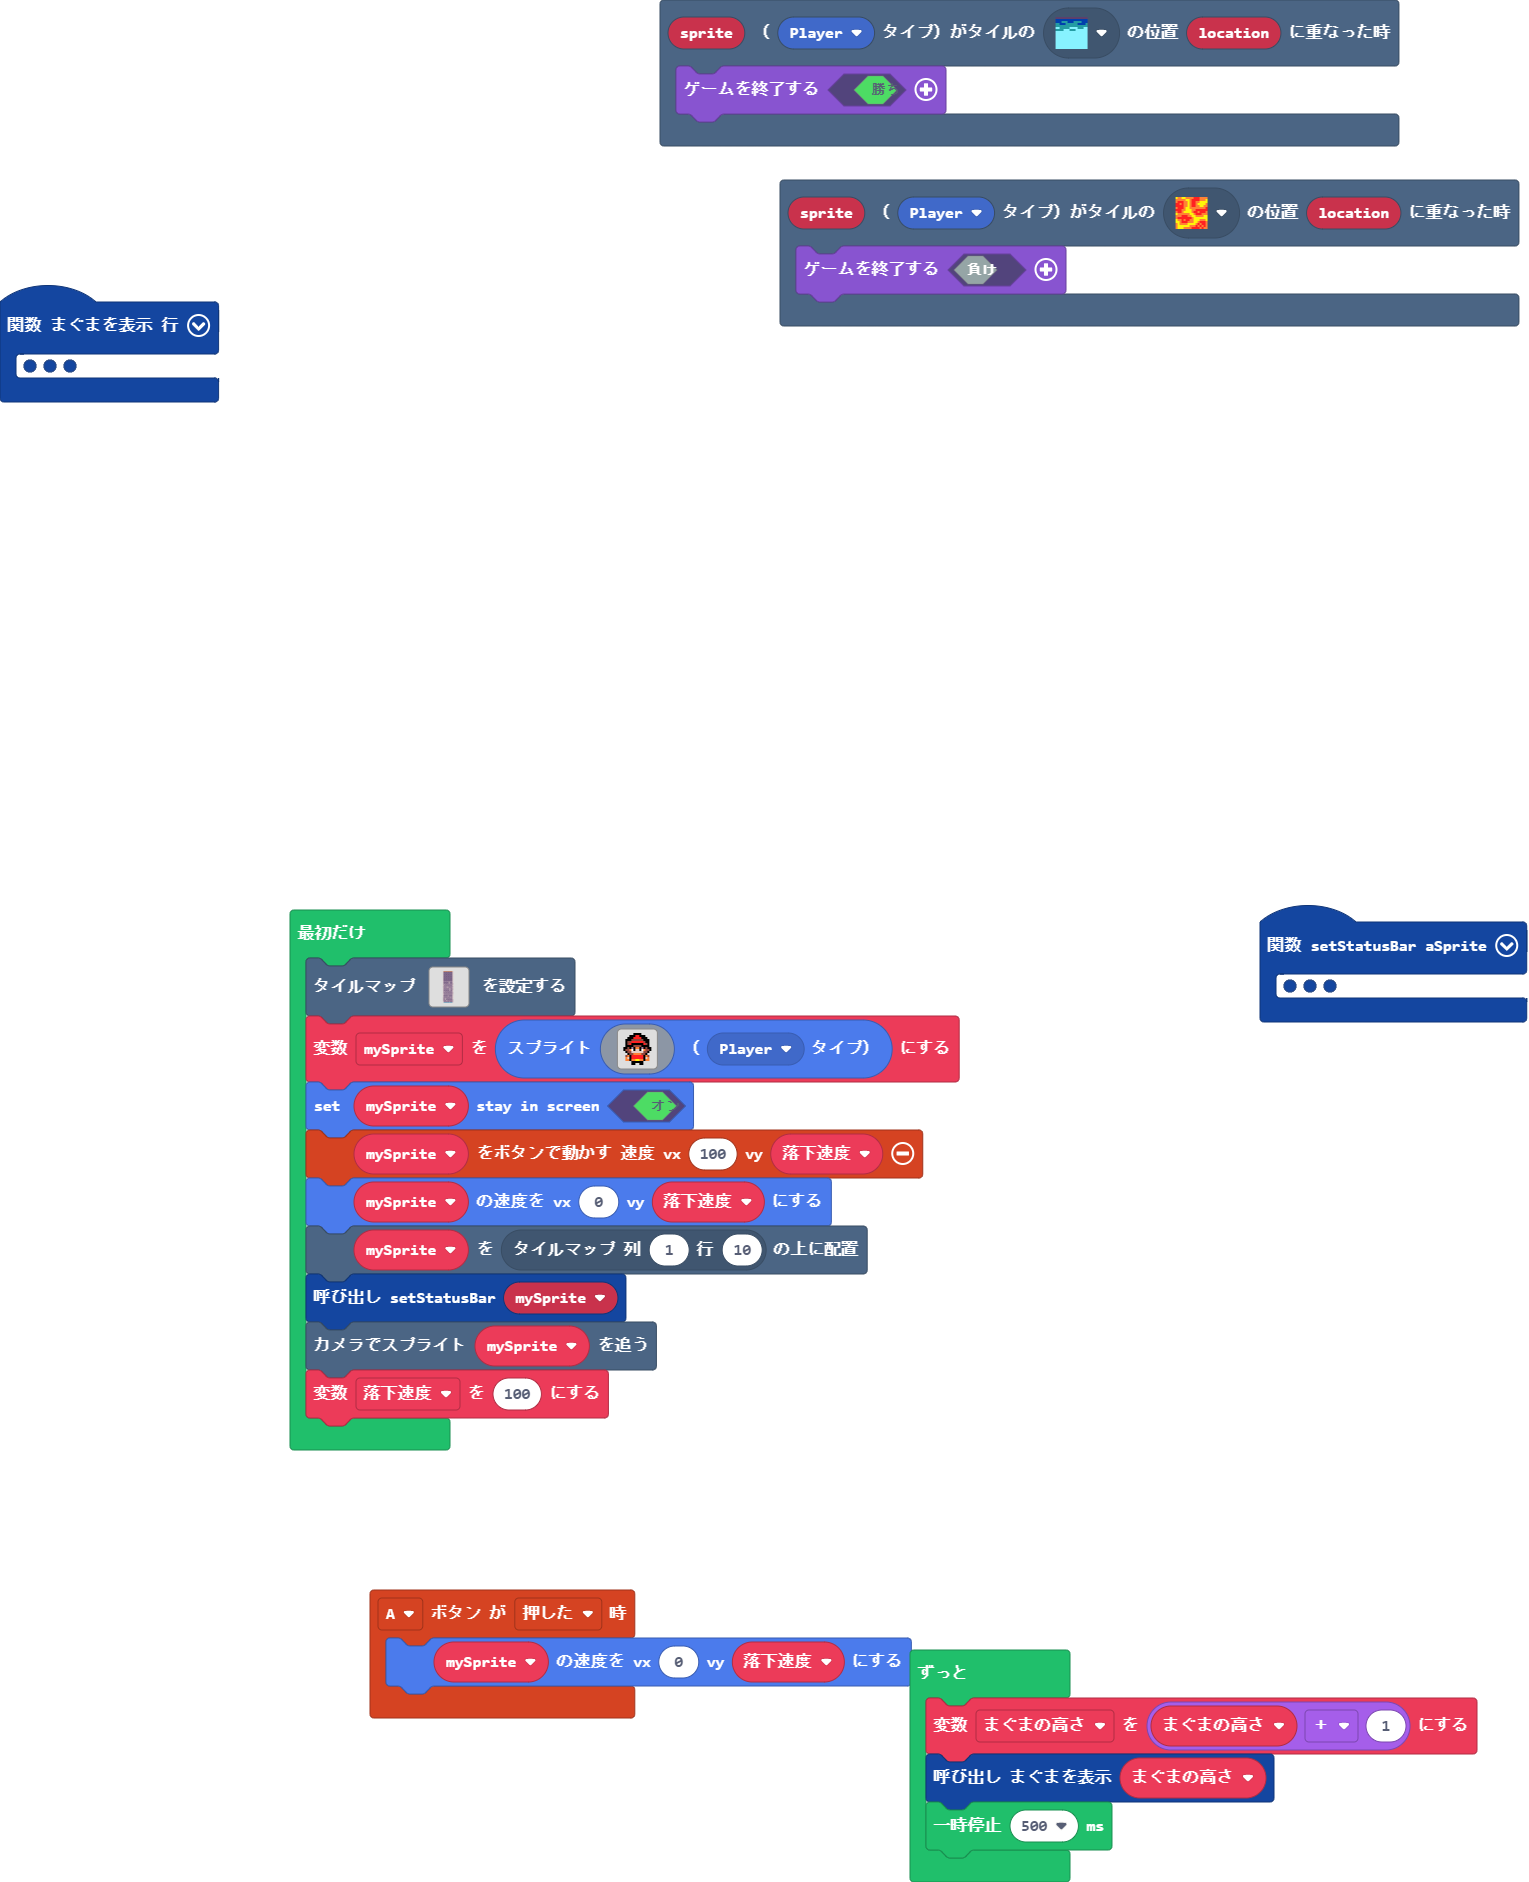
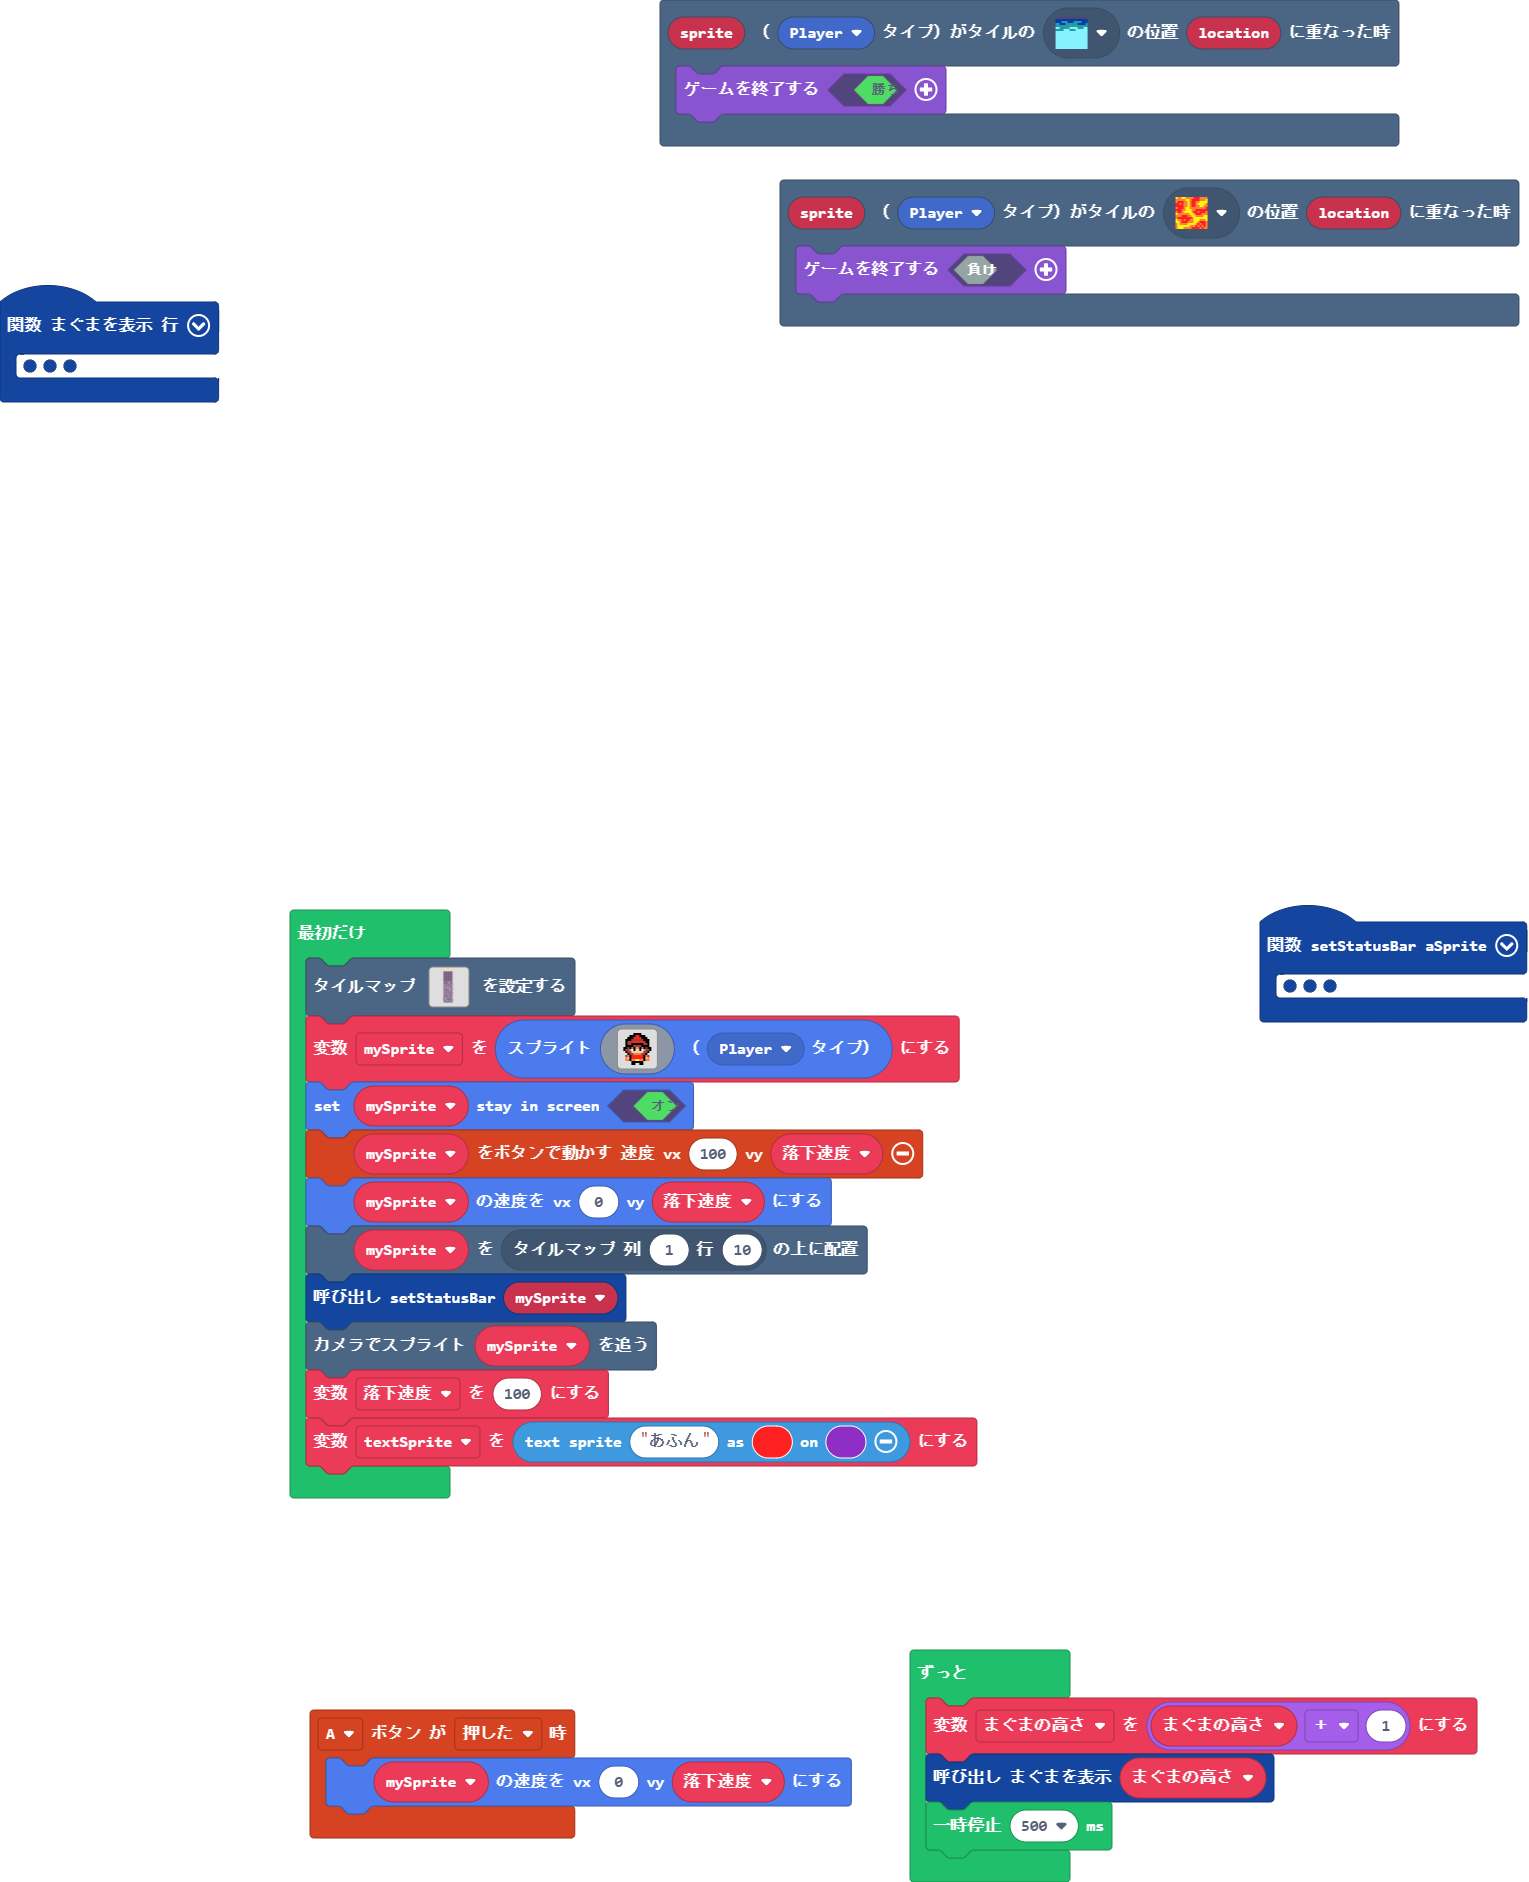
更新 pxt.json, main.blocks, main.ts, images.g.jres, images.g.ts

Changed region(s): [[0.1844, 0.8321, 0.6148, 0.9862], [0.1844, 0.7396, 0.6455, 0.8013]]

diff --git a/images.g.ts b/images.g.ts
@@ -21,6 +21,24 @@ namespace myImages {
 . . . . . f f f f f f . . . . . 
 . . . . . f f . . f f . . . . . 
 `;
+            case "image1":return img`
+. . . . . . . . . . . . . . . . 
+. . . . . . . . . . . . . . . . 
+. . . . . . . . . . . . . . . . 
+. . . . . . . . . . . . . . . . 
+. . . . . . . . . . . . . . . . 
+. . . . . . . . . . . . . . . . 
+. . . . . . e . . . . . . . . . 
+. . . . . e e e . . . . . . . . 
+. . . . e e e e e . . . . . . . 
+. . . e e e e e e e . . . . . . 
+. . e e e e e e e e e . . . . . 
+. e e e e e e e e e e e . . . . 
+. e e e e e e e e e e e . . . . 
+. . . . . . . . . . . . . . . . 
+. . . . . . . . . . . . . . . . 
+. . . . . . . . . . . . . . . . 
+`;
         }
         return null;
     })

diff --git a/main.ts b/main.ts
@@ -47,6 +47,7 @@ tiles.placeOnTile(mySprite, tiles.getTileLocation(1, 10))
 setStatusBar(mySprite)
 scene.cameraFollowSprite(mySprite)
 落下速度 = 100
+let textSprite = textsprite.create("あふん", 10, 2)
 forever(function () {
     まぐまの高さ = まぐまの高さ + 1
     まぐまを表示(まぐまの高さ)
